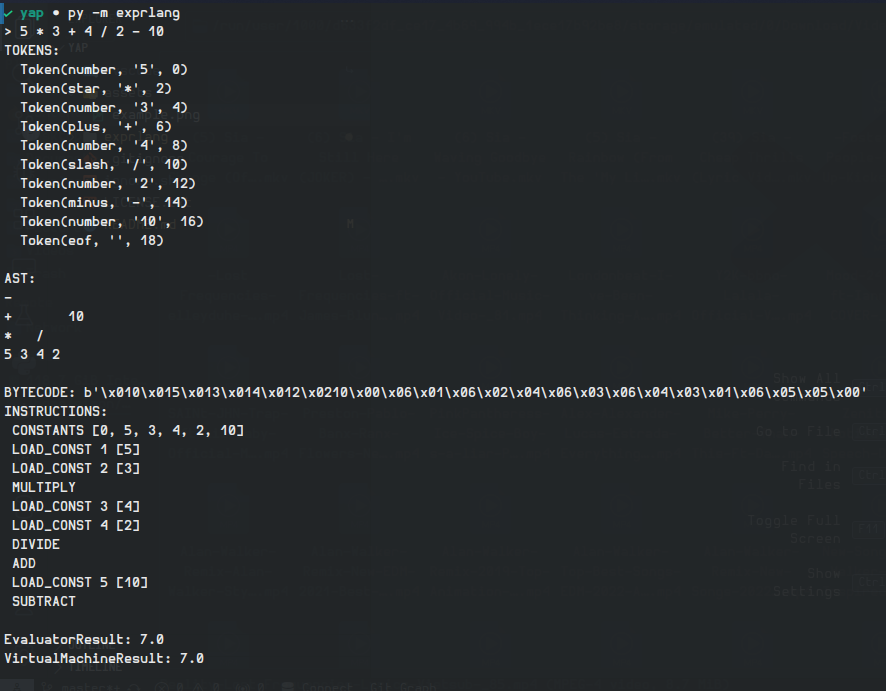
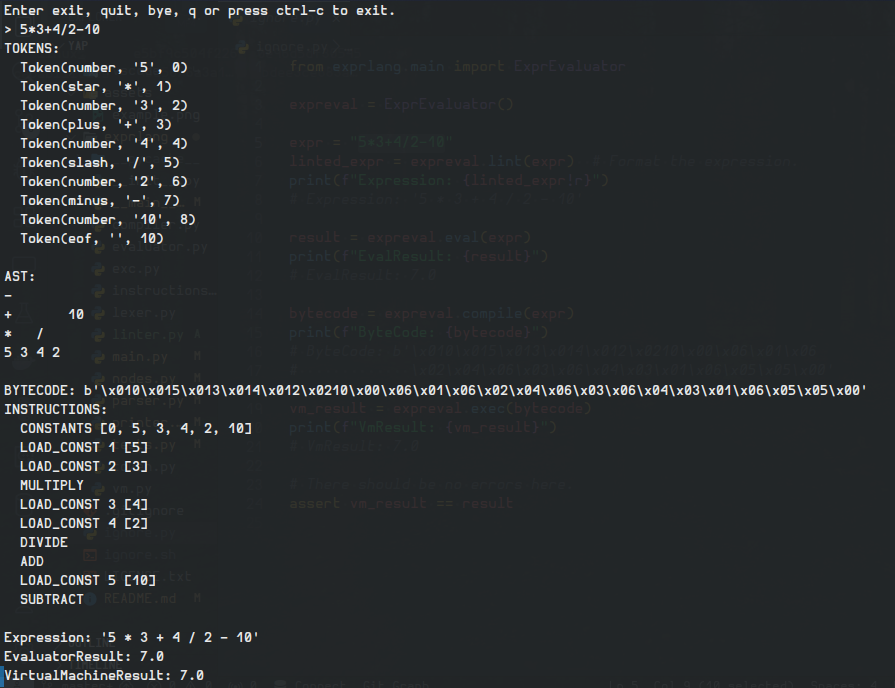
Added an Expr Formatter and fixed type hints.
The awaited feature, expression formatter, has arrived, work in progress
though but this will evolve into a linter for the whole language once I
add variables, namespaces, scoping, etc.
For now, the project is complete, the base has been set, the rest of the
features will be added with time. Some tests will be added, I don't know
why but I feel my tests are thin, they pass since I'm only testing
correct expressions, but how does the system react to incorrect input.
This will be addressed later.
There was an issue with type hints, I've fixed that, for now.

diff --git a/exprlang/nodes.py b/exprlang/nodes.py
@@ -39,7 +39,7 @@ class Expression(ty.Protocol):
     def accept(self, visitor) -> ty.Any:
         ...
 
-    def __eq__(self, other):
+    def __eq__(self, other: ty.Any) -> bool:
         ...
 
 
@@ -49,13 +49,13 @@ class Binary:
         self.operator = operator
         self.right = right
 
-    def __eq__(self, expr):
-        if isinstance(expr, Binary):
-            return (
-                self.left == expr.left
-                and self.operator == expr.operator
-                and self.right == expr.right
-            )
+    def __eq__(self, expr: ty.Any) -> bool:
+        return (
+            isinstance(expr, Binary)
+            and self.left == expr.left
+            and self.operator == expr.operator
+            and self.right == expr.right
+        )
 
 
 class Unary:
@@ -63,9 +63,12 @@ class Unary:
         self.operator = operator
         self.right = right
 
-    def __eq__(self, expr):
-        if isinstance(expr, Unary):
-            return self.operator == expr.operator and self.right == expr.right
+    def __eq__(self, expr) -> bool:
+        return (
+            isinstance(expr, Unary)
+            and self.operator == expr.operator
+            and self.right == expr.right
+        )
 
 
 class Plus(Binary, Expression):
@@ -116,5 +119,4 @@ class Number(Expression):
         return visitor.accept_number(self)
 
     def __eq__(self, numb):
-        if isinstance(numb, Number):
-            return self.token == numb.token
+        return isinstance(numb, Number) and self.token == numb.token

diff --git a/exprlang/formatter.py b/exprlang/formatter.py
@@ -1,0 +1,58 @@
+from .nodes import (
+    Expression,
+    Visitor,
+    Binary,
+    Number,
+    UMinus,
+    Unary,
+    Group,
+    Power,
+    Minus,
+    Slash,
+    UPlus,
+    Star,
+    Plus,
+)
+
+
+class Formatter(Visitor):
+    def accept_number(self, expr: Number) -> str:
+        return expr.token.lexeme
+
+    def _lint_binary(self, expr: Binary) -> str:
+        left: str = expr.left.accept(self)
+        right: str = expr.right.accept(self)
+        op: str = expr.operator.lexeme
+        return f"{left} {op} {right}"
+
+    def _lint_unary(self, expr: Unary) -> str:
+        right: str = expr.right.accept(self)
+        op: str = expr.operator.lexeme
+        return f"{op}{right}"
+
+    def accept_plus(self, expr: Plus) -> str:
+        return self._lint_binary(expr)
+
+    def accept_group(self, expr: Group) -> str:
+        return "(" + expr.right.accept(self) + ")"
+
+    def accept_minus(self, expr: Minus) -> str:
+        return self._lint_binary(expr)
+
+    def accept_power(self, expr: Power) -> str:
+        return self._lint_binary(expr)
+
+    def accept_slash(self, expr: Slash) -> str:
+        return self._lint_binary(expr)
+
+    def accept_star(self, expr: Star) -> str:
+        return self._lint_binary(expr)
+
+    def accept_uminus(self, expr: UMinus) -> str:
+        return self._lint_unary(expr)
+
+    def accept_uplus(self, expr: UPlus) -> str:
+        return self._lint_unary(expr)
+
+    def format(self, root: Expression) -> str:
+        return root.accept(self)

diff --git a/exprlang/parser.py b/exprlang/parser.py
@@ -19,23 +19,23 @@ class Parser:
 
     def minus(self):
         left = self.plus()
-        if self.peektype() == TokenType.MINUS:
+        while self.peektype() == TokenType.MINUS:
             operator = self.advance()
-            return nodes.Minus(left, operator, self.minus())
+            left = nodes.Minus(left, operator, self.plus())
         return left
 
     def plus(self):
         left = self.star()
-        if self.peektype() == TokenType.PLUS:
+        while self.peektype() == TokenType.PLUS:
             operator = self.advance()
-            return nodes.Plus(left, operator, self.plus())
+            left = nodes.Plus(left, operator, self.star())
         return left
 
     def star(self):
         left = self.slash()
-        if self.peektype() == TokenType.STAR:
+        while self.peektype() == TokenType.STAR:
             operator = self.advance()
-            return nodes.Star(left, operator, self.star())
+            left = nodes.Star(left, operator, self.slash())
         return left
 
     def slash(self):

diff --git a/exprlang/__main__.py b/exprlang/__main__.py
@@ -1,5 +1,6 @@
 from .printer import ByteCodePrinter, ASTPrinter
 from .exc import LexerError, ParserError
+from .formatter import Formatter
 from .evaluator import Evaluator
 from .vm import VirtualMachine
 from .compiler import Compiler
@@ -9,6 +10,7 @@ from .lexer import Lexer
 bytecodeprinter = ByteCodePrinter()
 astprinter = ASTPrinter()
 evaluator = Evaluator()
+formatter = Formatter()
 vm = VirtualMachine()
 compiler = Compiler()
 parser = Parser()
@@ -29,10 +31,11 @@ def _run(expr: str):
         bytecode = compiler.compile(ast)
         print(f"BYTECODE: {bytecode!r}")
         print("INSTRUCTIONS:")
-        bytecodeprinter.print(bytecode)
+        bytecodeprinter.print(bytecode, indent='  ')
         print()
         e_result = evaluator.eval(ast)
         v_result = vm.execute(bytecode)
+        print(f"Expression: {formatter.format(ast)!r}")
         print(f"EvaluatorResult: {e_result!r}")
         print(f"VirtualMachineResult: {v_result!r}")
     except ParserError as e:

diff --git a/exprlang/main.py b/exprlang/main.py
@@ -1,5 +1,6 @@
 from .vm import VirtualMachine as _VirtualMachine
 from .evaluator import Evaluator as _Evaluator
+from .formatter import Formatter as _Formatter
 from .compiler import Compiler as _Compiler
 from .parser import Parser as _Parser
 from .lexer import Lexer as _Lexer
@@ -10,6 +11,7 @@ class ExprEvaluator:
     def __init__(self) -> None:
         self._vm = _VirtualMachine()
         self._eval = _Evaluator()
+        self._format = _Formatter()
         self._comp = _Compiler()
         self._pars = _Parser()
         self._lex = _Lexer()
@@ -17,6 +19,10 @@ class ExprEvaluator:
     def _genast(self, expr: str):
         tokens = self._lex.scan(expr)
         return self._pars.parse(tokens)
+
+    def format(self, expr: str) -> str:
+        ast = self._genast(expr)
+        return self._format.format(ast)
 
     def eval(self, expr: str):
         ast = self._genast(expr)

diff --git a/exprlang/printer.py b/exprlang/printer.py
@@ -110,8 +110,8 @@ class ByteCodePrinter:
 
 class ASTPrinter(Visitor):
     def __init__(self) -> None:
-        self._column = 0
         self._lines = defaultdict(lambda: "")
+        self._column = 0
         self._line = 0
 
     @property
@@ -173,8 +173,11 @@ class ASTPrinter(Visitor):
 
     reset = __init__
 
-    def print(self, root: Expression):
+    def join(self, root: Expression):
         self.reset()
         root.accept(self)
-        for line in sorted(self._lines):
-            print(self._lines[line])
+        lines = (self._lines[l] for l in sorted(self._lines))
+        return "\n".join(lines)
+
+    def print(self, root: Expression):
+        print(self.join(root))

diff --git a/exprlang/tests.py b/exprlang/tests.py
@@ -147,9 +147,10 @@ def test_virtual_machine():
         ("4 * 7", 28),
         ("4 * 7 + 3", 31),
         ("1024 ^ 0.1", 2),
-        ("2 ^ 2 ^ 2", 16),
         ("5 ^ 2 ^ 0.5", 5),
         ("9 / 10 / 10", 0.09),
+        ("2 ^ 2 ^ 2 ^ 2", 256),
+        ("2 + 3 - 4 + 5 - 6 + 7", -17),
         ("11111111 ^ 2", 123456787654321),
         ("50 - +90 / 7 * 23 ^ (8 + -6)", -47260 / 7),
     )

diff --git a/README.md b/README.md
@@ -16,7 +16,7 @@ This will also show the advantages of compilation over interpretation and hopefu
 - [x] Add a simple informative and usable REPR.
 - [x] Add an instruction printer.
 - [x] Add an AST printer.
-- [ ] Add a linter/expression formatter.
+- [x] Add an expression formatter.
 - [ ] Add more to this list.
 
 # Hopes for the project.
@@ -38,9 +38,10 @@ from exprlang.main import ExprEvaluator
 
 expreval = ExprEvaluator()
 
-expr = "5 * 3 + 4 / 2 - 10"
-print(f"Expression: {expr}")
-# Expression: 5 * 3 + 4 / 2 - 10
+expr = "5*3+4/2-10"
+linted_expr = expreval.format(expr)
+print(f"Expression: {linted_expr!r}")
+# Expression: '5 * 3 + 4 / 2 - 10'
 
 result = expreval.eval(expr)
 print(f"EvalResult: {result}")
@@ -48,12 +49,14 @@ print(f"EvalResult: {result}")
 
 bytecode = expreval.compile(expr)
 print(f"ByteCode: {bytecode}")
-# ByteCode: b'\x010\x015\x013\x014\x012\x0210\x00\x06\x01\x06\x02\x04\x06\x03\x06\x04\x03\x01\x06\x05\x05\x00'
+# ByteCode: b'\x010\x015\x013\x014\x012\x0210\x00\x06\x01\x06
+#             \x02\x04\x06\x03\x06\x04\x03\x01\x06\x05\x05\x00'
 
 vm_result = expreval.exec(bytecode)
 print(f"VmResult: {vm_result}")
 # VmResult: 7.0
 
+# There should be no errors here.
 assert vm_result == result
 ```
 
